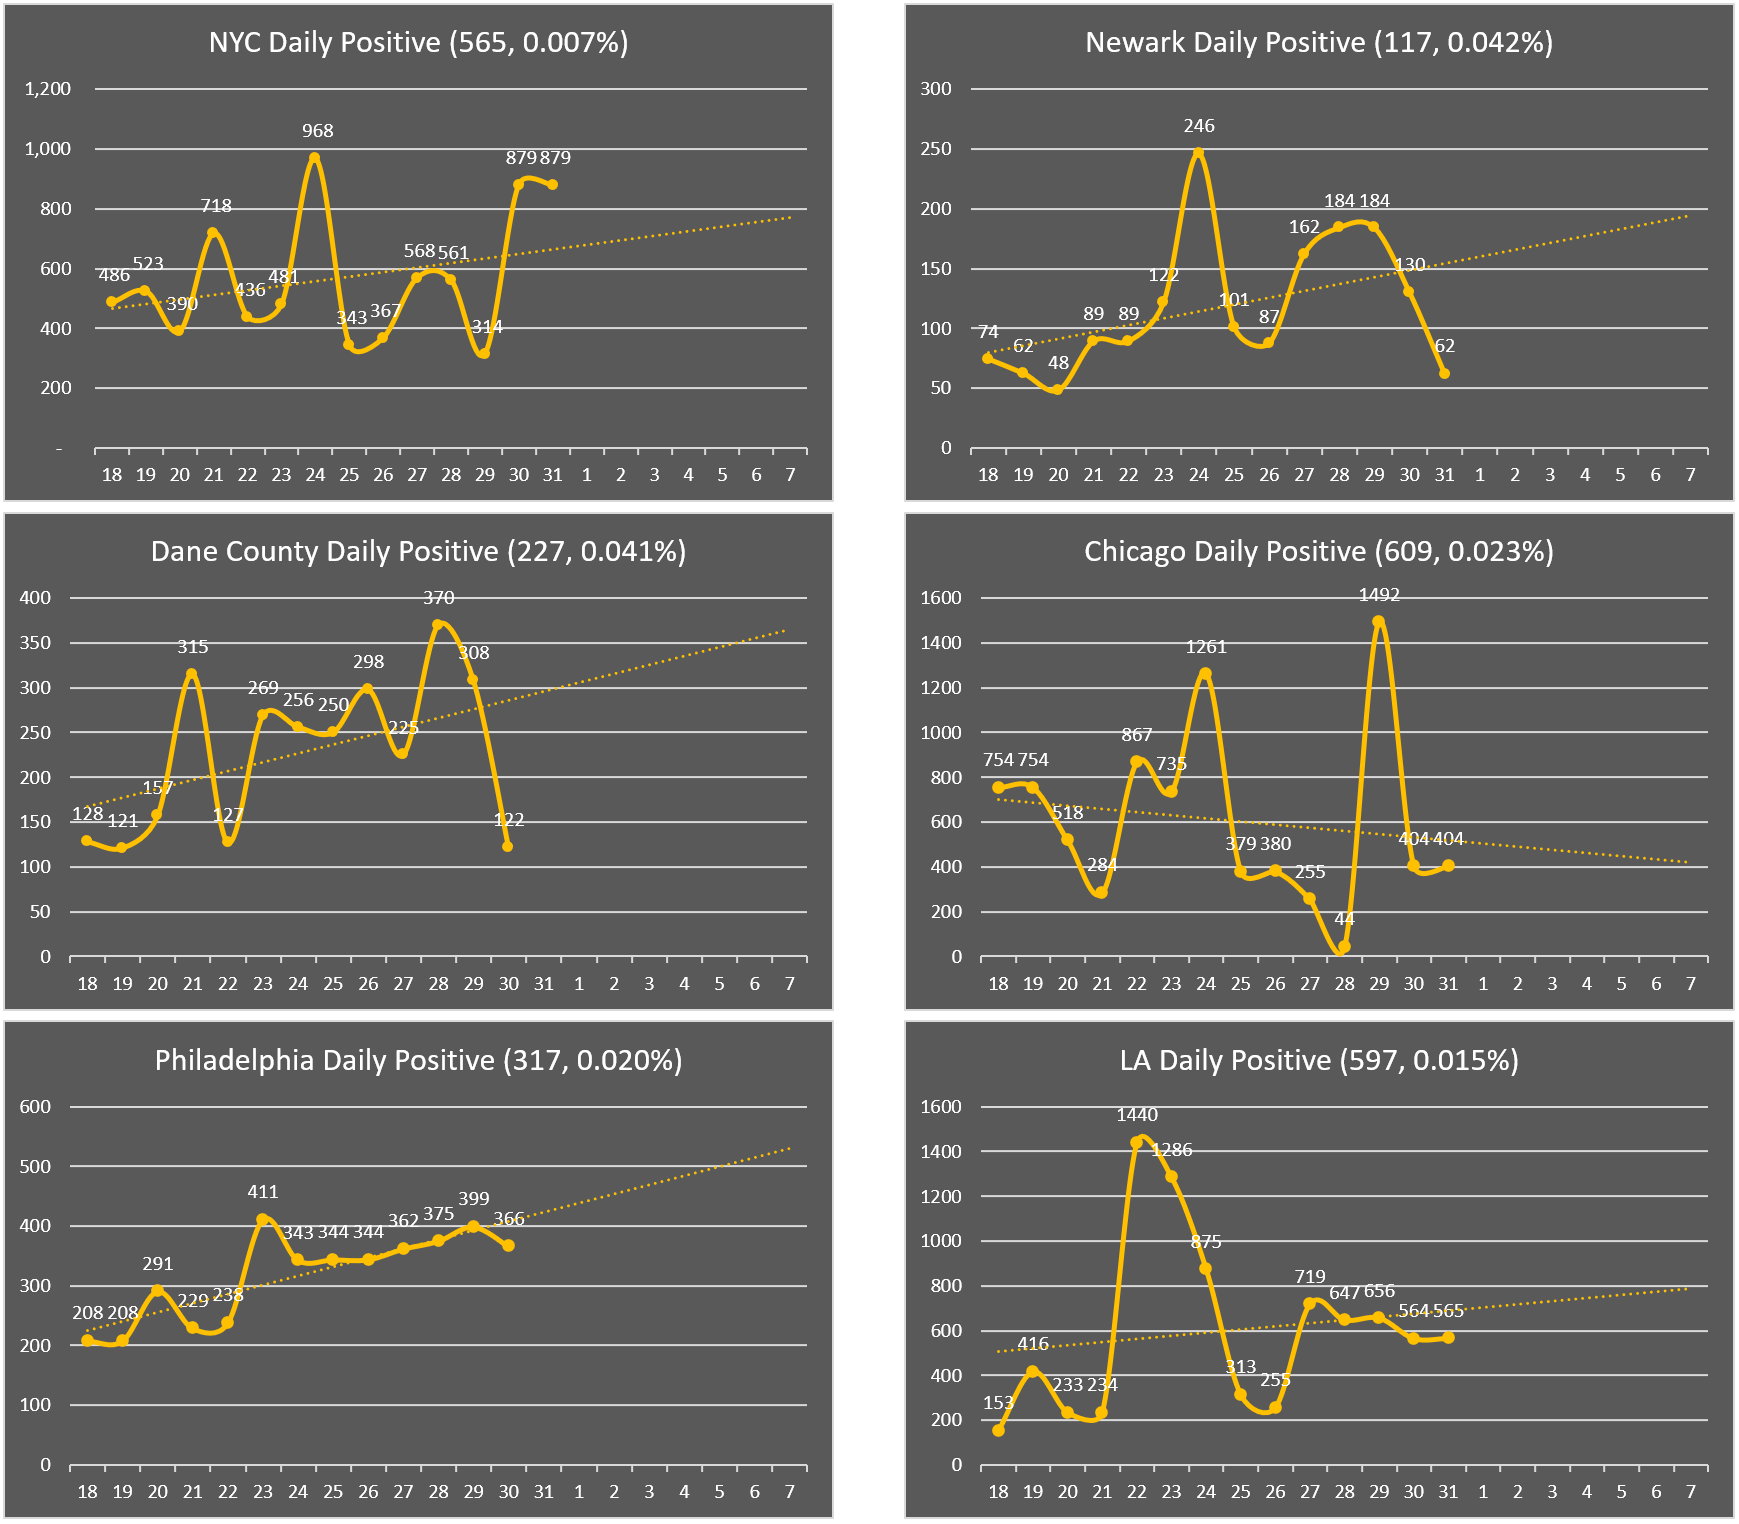
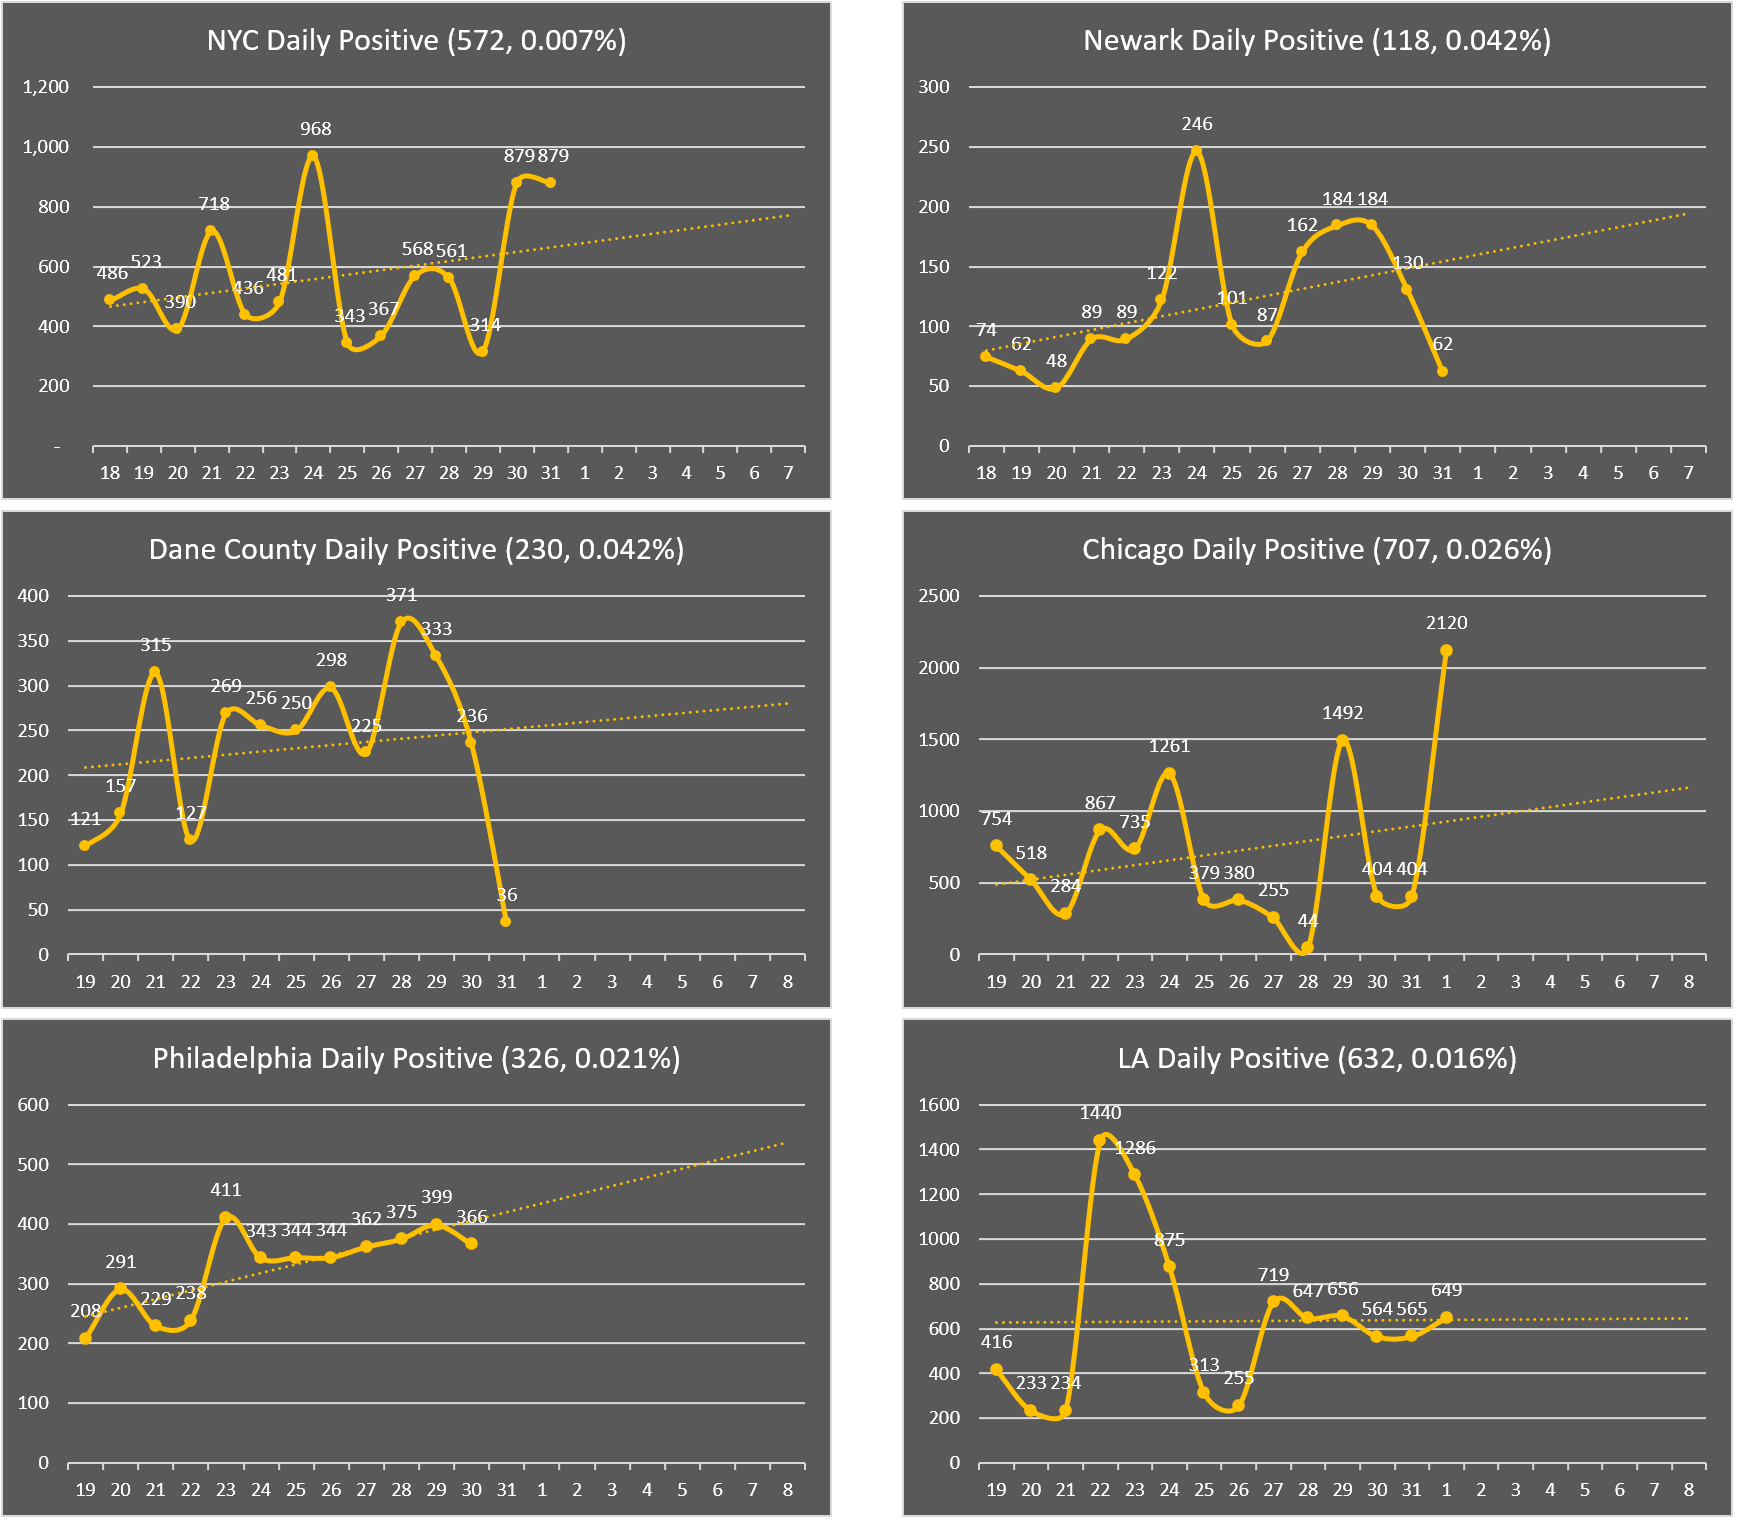
update 11/1 status

diff --git a/index.html b/index.html
@@ -19,7 +19,7 @@
 
 <body class="container-fluid">
 	<h1> CoronaV for Friends</h1>
-	<h2> Data updated at Oct 31 2020 EST 19:50</h2>
+	<h2> Data updated at Nov 01 2020 EST 19:30</h2>
 	<hr>
 	<main>
 		<div class="row">
